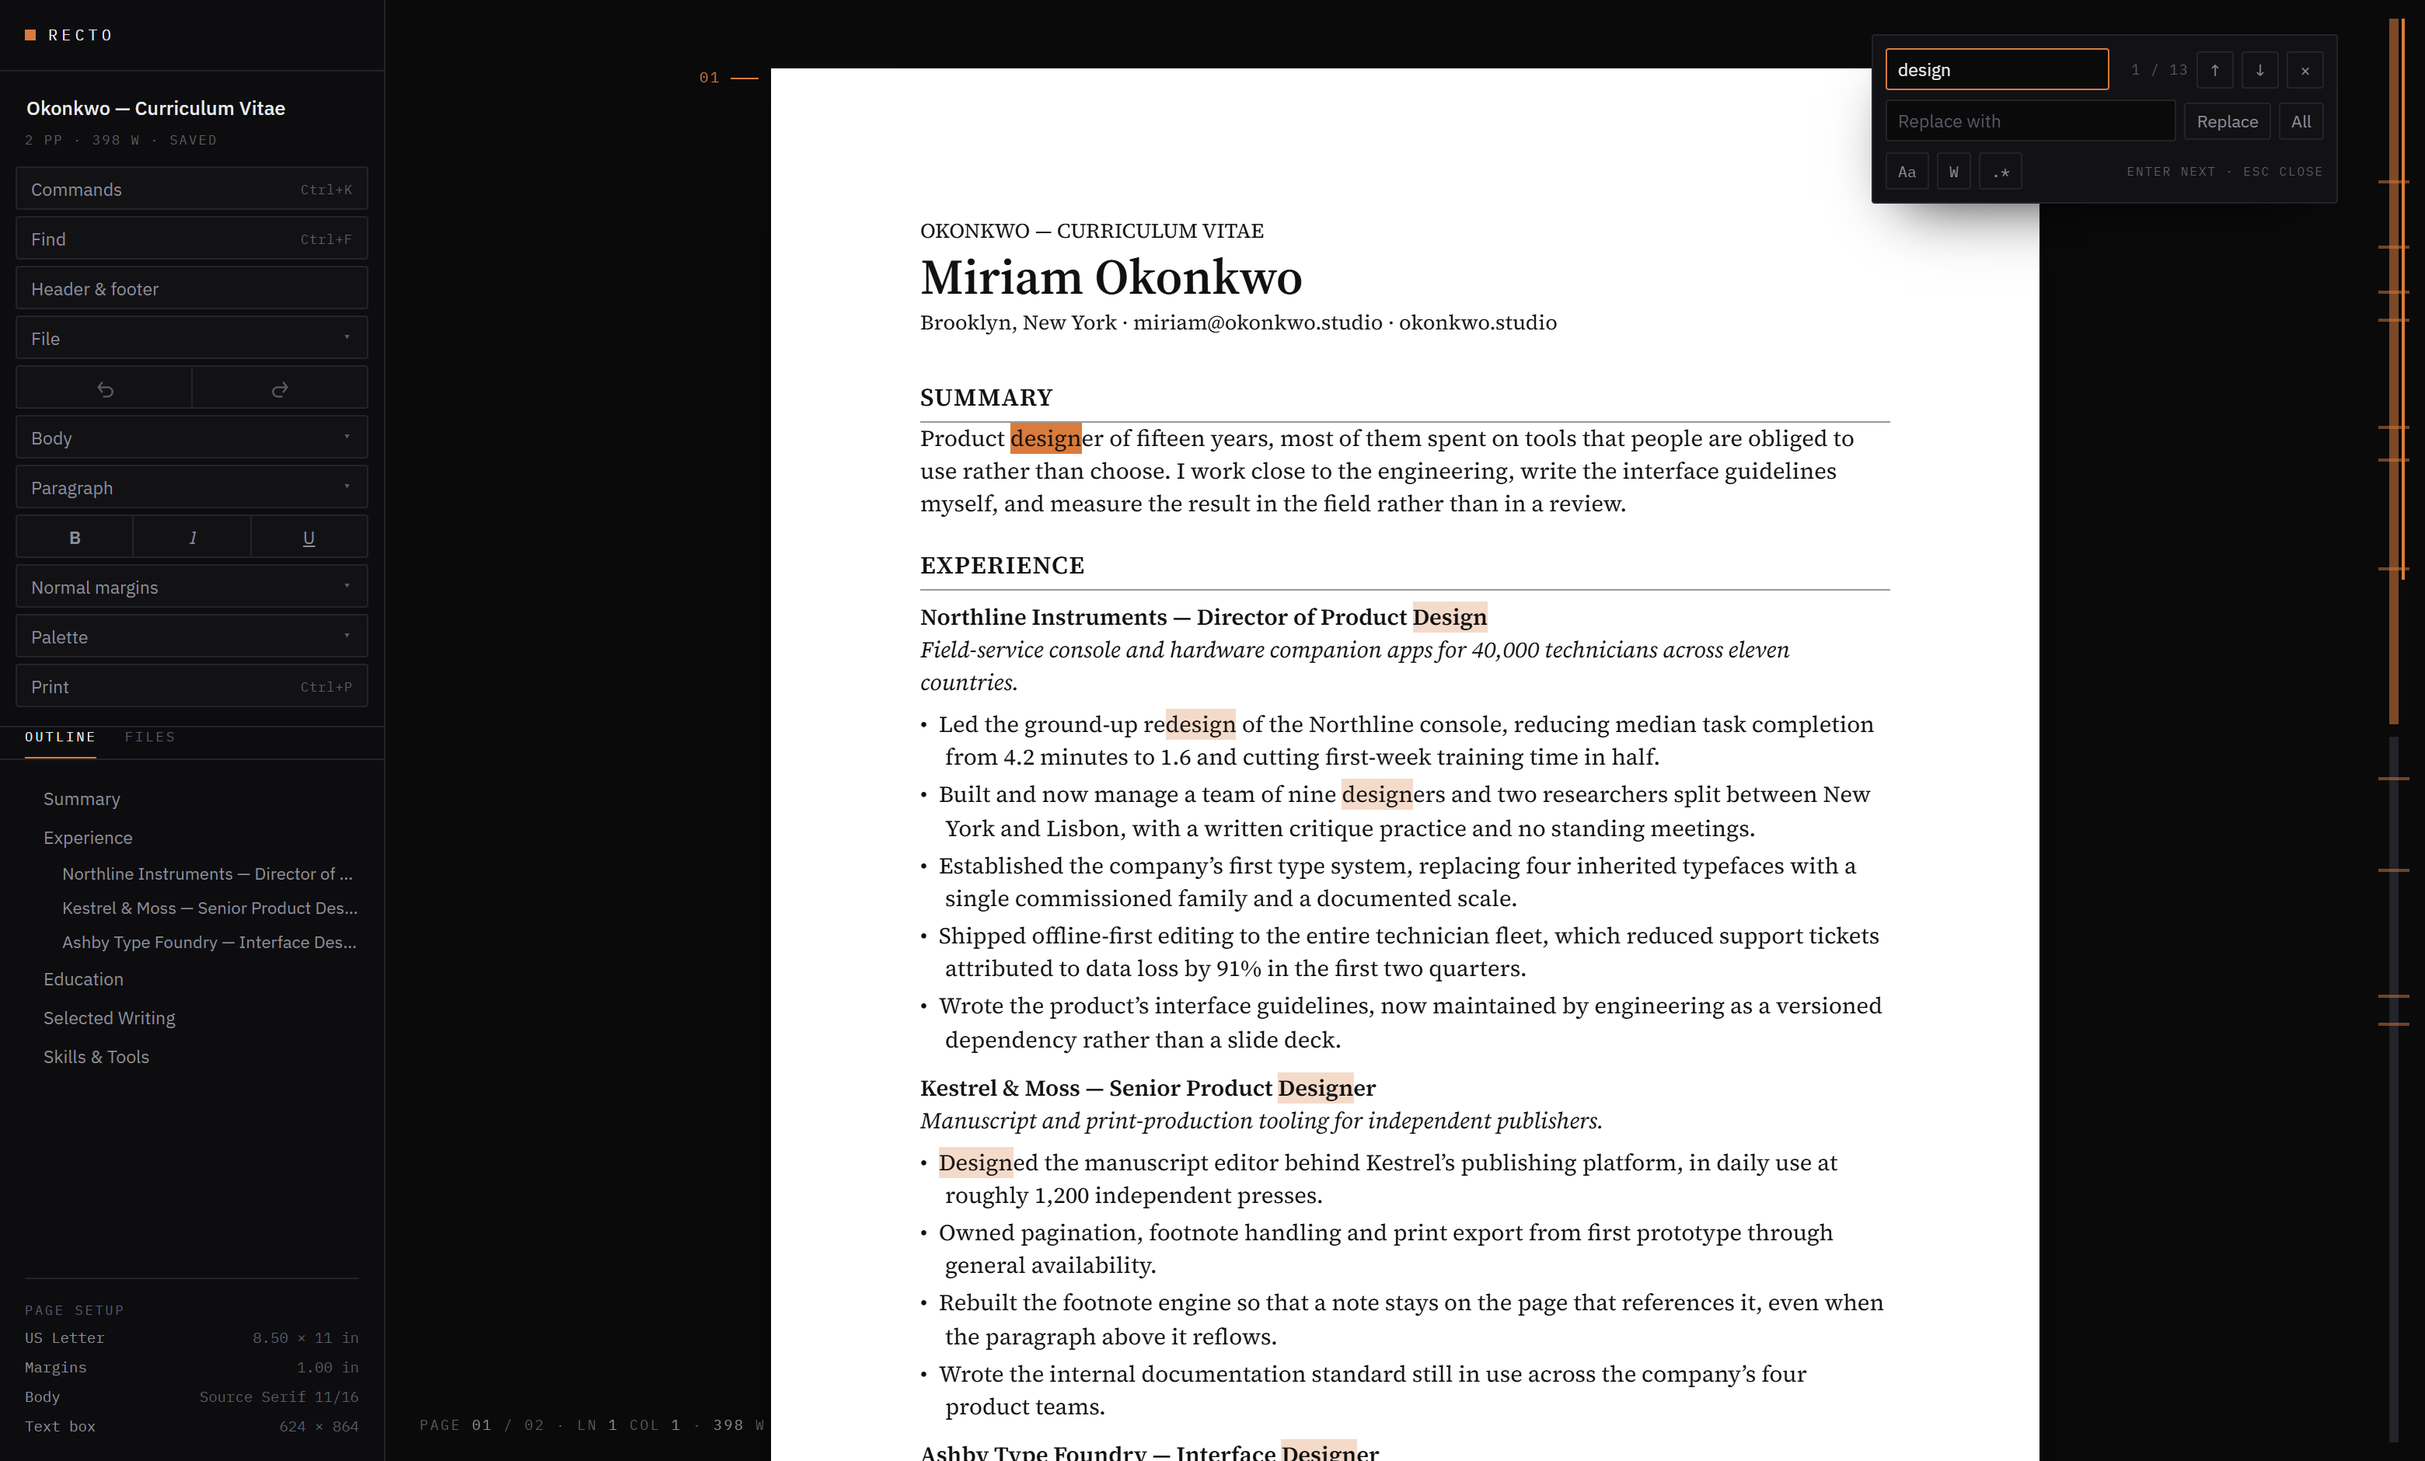
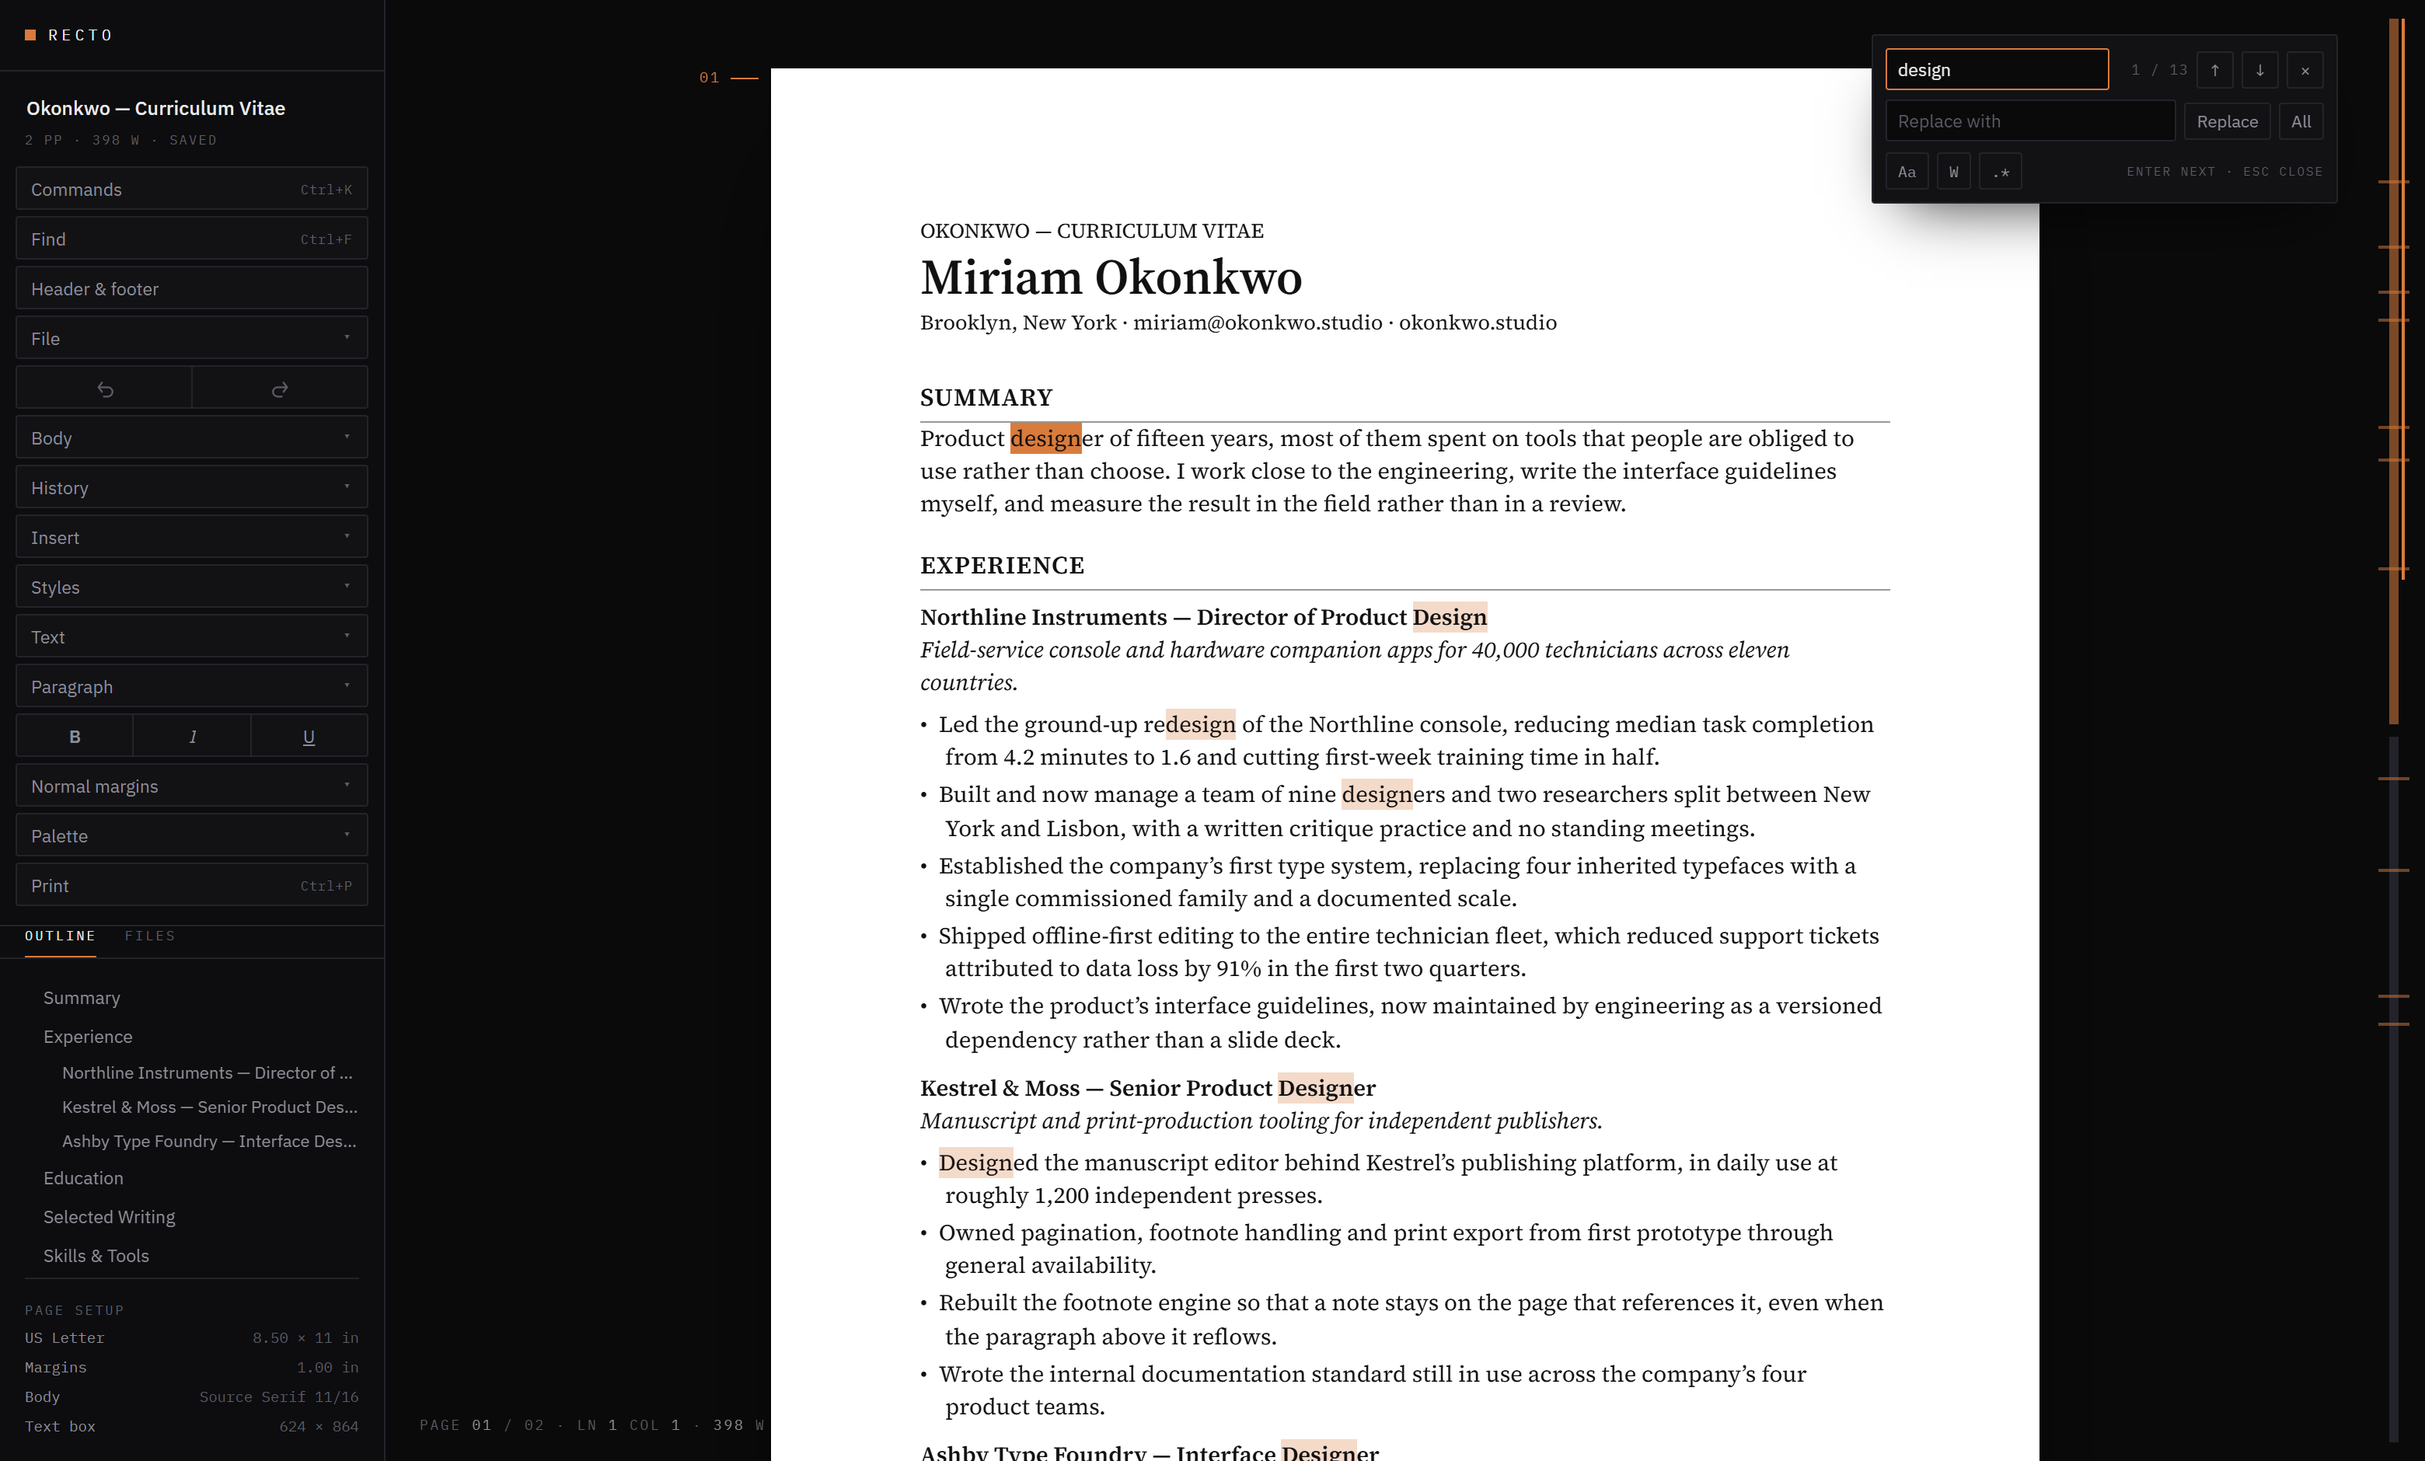
Document the nine, and recapture the rail
README picks up character formatting, comments, version history, the
styles editor, library search and the phone layout; the harness table
now lists every suite and what each one pins down; the acceptance tests
gain the two new measured ones.

Screenshots regenerated: the rail has grown History, Insert, Styles,
Text and Paragraph since the last set, and a screenshot that stops being
true is the thing docs/screenshots.mjs exists to prevent.

Changed region(s): [[0.0, 0.4628, 0.1554, 0.8638], [0.0311, 0.4011, 0.0622, 0.4319]]

diff --git a/README.md b/README.md
@@ -26,9 +26,9 @@ and a preview pane that this program has never had.
 ## Contents
 
 - [Stack](#stack)
-- [The workspace](#the-workspace) — [command palette](#the-command-palette), [formatting bar](#the-formatting-bar), [export sheet](#the-export-sheet), [library](#the-library), [palettes](#palettes)
+- [The workspace](#the-workspace) — [command palette](#the-command-palette), [formatting bar](#the-formatting-bar), [export sheet](#the-export-sheet), [library](#the-library), [history](#version-history), [styles](#the-styles-editor), [a phone](#a-phone), [palettes](#palettes)
 - [Geometry](#geometry) · [How it works](#how-it-works) · [Pagination](#the-two-pagination-paths) · [Line-level splitting](#line-level-splitting) · [Styles](#styles)
-- [Opening a .docx](#opening-a-docx) — [headings](#headings-when-the-document-does-not-say), [tables](#tables), [sections](#sections), [direct formatting](#direct-paragraph-formatting), [the preservation vault](#the-preservation-vault)
+- [Opening a .docx](#opening-a-docx) — [headings](#headings-when-the-document-does-not-say), [tables](#tables), [sections](#sections), [paragraph formatting](#direct-paragraph-formatting), [character formatting](#direct-character-formatting), [comments](#comments), [the preservation vault](#the-preservation-vault)
 - [Fidelity harness](#fidelity-harness) · [Printing to PDF](#printing-to-pdf) · [.docx export](#docx-export) · [Storage](#storage)
 - [Format independence](#format-independence) · [Not built, on purpose](#not-built-on-purpose) · [Acceptance tests](#acceptance-tests)
 
@@ -141,8 +141,12 @@ has no original would be a lie told at exactly the wrong moment.
 <sub>The FILES tab: type-to-filter, a recency fade down the list, page and word counts kept in the index so nothing has to be loaded to list it, and the one command that gets everything out.</sub>
 
 
-The rail's FILES tab lists every document, newest first, with a type-to-filter
-box and a recency fade down the list. Clicking one opens it; the row menu
+The rail's FILES tab lists every document, newest first, with a recency fade
+down the list. Typing two or more letters searches the **text** of every
+document, not just its title, with a match count and the line the phrase is
+on so you can tell which document it is without opening it. No index: sixty
+documents of six hundred kilobytes is a few milliseconds, and an index that
+can be wrong is worse than a scan that cannot. Clicking one opens it; the row menu
 duplicates or deletes. `New document` and `Browse documents` are in the File
 menu, on Cmd/Ctrl+N and Cmd/Ctrl+O.
 
@@ -159,6 +163,53 @@ Two things this has to get right:
 Deleting a document also deletes the original .docx bytes held for it in
 IndexedDB, and if it was the open one the app lands on the next most recent
 rather than on a document that no longer exists.
+
+### Version history
+
+Every settled save keeps a version, twenty-five per document, in IndexedDB.
+Deliberately **not** localStorage: that is where the documents themselves
+live, and filling it with history would make the thing it protects fail to
+save. Losing history is survivable; failing to save is not — which is also
+why `keepVersion` is never awaited and swallows its own failures.
+
+A version is only kept when it differs from the one before it, so sitting on
+a document does not fill the store with copies of itself. Restoring is an
+edit rather than a rewind: the version you were on is kept, so changing your
+mind costs nothing and one Undo puts it back. The document id survives the
+restore, or it would become a second document in the library.
+
+### The styles editor
+
+The six named styles are the document's own. A resume set in 10pt and a
+report set in 12pt are both right, so the overrides live on the **document**
+— a global preference would be wrong in one of them.
+
+`STYLES` is mutated in place rather than replaced. Everything reads
+`STYLES[id]` directly — the CSS emitter, the style menu, the Enter key, the
+paginator's keep-with-next rules and both exporters — so one table that
+changes is the whole feature, where a second table would be a second source
+of truth to get out of step. A value equal to the shipped one is recorded as
+agreement rather than as an override, so a document fiddled back to the
+default carries no `styles` block at all.
+
+### A phone
+
+The page is 816 CSS pixels wide and has to stay that way: every height the
+paginator compares against is a CSS pixel, so a responsive layout that shrank
+the page would shrink the measurements with it.
+
+So nothing scales the page. The **viewport** is widened instead — the browser
+lays the app out at a fixed 880 and scales the rendered result down to the
+device, as it does for any fixed-width page. Measurement is untouched, the
+caret lands where it looks like it should, and print still matches the screen
+because the screen is still 816 pixels of paper. The rail becomes a drawer;
+the document map and the gutter page numbers go, because they are for a mouse
+and a wide window; the readout stays, because it is the only thing that says
+where you are.
+
+Mobile is a coarse pointer **and** a narrow screen. Either alone is the wrong
+test: a touchscreen laptop has a coarse pointer and plenty of room, and a
+narrow window on a desktop belongs to someone who can widen it.
 
 ### Palettes
 
@@ -215,6 +266,11 @@ All geometry is in CSS pixels at 96px per inch, and the numbers are exact.
 | `main.ts` | entry, toolbar composition, event wiring, autosave |
 | `ui.ts` | control widgets: buttons and dropdown menus |
 | `commandbar.ts` | the command palette |
+| `ask.ts` | one question, one answer |
+| `insert.ts` | making tables, images, links and page breaks |
+| `runs.ts` | character formatting: read, drawn, edited |
+| `versions.ts` | version history, in IndexedDB |
+| `mobile.ts` | the phone layout |
 | `formatbar.ts` | the formatting bar over a selection |
 | `exportsheet.ts` | the export sheet, and what each format costs |
 | `theme.ts` | the twelve palettes, as ten tokens each |
@@ -555,6 +611,52 @@ on Word's own `Ctrl+L`/`E`/`R`/`J`, which is why the export sheet moved to
 **Paragraph** menu and in the command palette, along with *Clear direct
 formatting*, which takes a paragraph back to its named style.
 
+### Direct character formatting
+
+14,865 of 18,906 runs in a 63-document corpus carry a size, a font or a
+colour of their own — **79%**, against the 47% that carry paragraph
+formatting. None of it was drawn, and there was a live data bug underneath:
+the vault kept **one** base `w:rPr` per paragraph and wrote it onto every
+regenerated run, so editing a line with one red word in it made the whole
+line red. Only untouched paragraphs were safe, which is exactly why a
+harness built on byte-identity never saw it.
+
+Runs carry their own style **absolutely** rather than as a difference from a
+paragraph base. The difference was tried first and reproduced the bug from
+the other end: a base taken from the first run with any properties made
+every plain run inherit that run's colour, and there is no way to spell
+"explicitly none". Absolute values have no inheritance to get wrong, survive
+a JSON round trip with no vault to consult, and cost almost nothing in
+markup, because adjacent pieces that agree are merged before the html is
+written — a paragraph whose every run is 14pt becomes one span, not one per
+run.
+
+Stored as data attributes on a span, never as a `style` attribute: the CSS
+is derived at render, so the sanitizer keeps a closed attribute list and
+nothing from the clipboard can smuggle a style into a saved document.
+Superscript is drawn as a smaller font on a raised baseline rather than
+`<sup>`, which would change the line box height and make a line taller than
+the paginator measured it.
+
+### Comments
+
+Not one document in the corpus has a comment in it, which is exactly why
+this needed doing: `w:commentRangeStart` fell through the inline walker's
+default case, so editing the words around a comment left it pointing at
+nothing, and nothing in that corpus would ever have caught it.
+
+Anchors are carried through the model as empty marker spans — the shape a
+page-number field already used, marking a position rather than holding text,
+so the caret counts exactly the characters it counted before. They are
+written back as `w:commentRangeStart`, `w:commentRangeEnd` and a
+`w:commentReference` inside a run, which is where the schema wants it.
+
+Comments are shown, not authored: author, initials, date and text are read
+from `word/comments.xml` and listed under the outline, because a document
+with comments on it is being reviewed and the comments and the headings
+answer the same question. The part is preserved whole, so a reply written in
+Word survives a round trip through here.
+
 ### The preservation vault
 
 The original package is kept in memory. On export only the body of
@@ -597,8 +699,24 @@ Two honest limits:
 
 ```bash
 npm run corpus   # write a seed corpus into test/corpus
-npm test         # inference, tables and the round trip
+npm test         # every suite, then the round trip
 ```
+
+| Suite | What it pins down |
+|---|---|
+| `test:infer` | headings, when the document does not say |
+| `test:table` | editing a cell survives export |
+| `test:image` | pictures come back whole |
+| `test:header` | headers, footers and page-number fields |
+| `test:section` | per-section geometry and headers |
+| `test:format` | alignment, indents and spacing, in schema order |
+| `test:run` | character formatting, and the flattening bug |
+| `test:insert` | new links, images and page breaks, added not overwritten |
+| `test:comment` | comment anchors survive an edit |
+| `test:text` | Markdown and HTML out, Markdown back in |
+| `test:roundtrip` | every part, byte for byte |
+| `test:pagination` | our page breaks against Word's own count |
+| `test:perf` | a keystroke inside a frame at any size |
 
 For each document it asserts that every part survives, that **non-document
 parts are byte-identical**, that text content and paragraph, table, numbering,
@@ -754,14 +872,15 @@ problem Markdown and .docx do not already solve here.
   and edited; one that arrives on the clipboard is not.
 - **A continuous section break.** It shares a page with the section before
   it, and a page has one geometry, so it folds into that section instead.
-- **Direct character formatting.** Paragraphs can be aligned, indented and
-  spaced, but there is still no font family, size or colour control: a run is
-  bold, italic, underlined, or it is whatever its named style says. Imported
-  run formatting is preserved on export and shown as the style renders it.
-- **Creating** a table or inserting an image. Both are read, drawn and edited
-  when they arrive in a .docx; neither can be made from nothing.
+- **Authoring comments.** They are read, anchored and shown; there is no way
+  to write one. Replies made in Word survive a round trip through here.
+- **Tracked changes** are shown as accepted and preserved on export. There is
+  no way to see them as changes, accept one or reject one.
+- **Highlight, small capitals and character styles.** Size, font, colour,
+  strikethrough and super/subscript are editable; the rest of `w:rPr` is
+  preserved and drawn as the named style renders it.
 - Columns, text boxes, footnotes, PDF import, collaboration, spell check
-  beyond the browser's own, mobile layout, any backend.
+  beyond the browser's own, any backend.
 
 Undo granularity is coarser than Word's: typing coalesces into one entry per
 500ms of activity, and each structural change is one entry.
@@ -802,5 +921,12 @@ Run these in order; all pass as of the last change.
 11. **Export match** — the .docx carries all six named styles, bold/italic/
     underline, hyperlinks, line breaks, bullet numbering, 8.5×11in page size
     and the right margins, with no forced page breaks.
-12. **Performance** — on a 10-page document the input handler runs at ~0.5ms
-    median and under 2ms at p99, whether typing on page 1 or page 10.
+12. **Performance** — `npm run test:perf` builds a document of any size and
+    measures a real keystroke in a real browser. At 200 pages and 2,701
+    blocks a keystroke is 4ms median and 8.3ms at p99, inside a frame
+    wherever in the document it lands. It was 14.7ms at eighty pages until
+    the gutter and the document map stopped rebuilding themselves on every
+    keystroke — the pagination was never the problem; the chrome was.
+13. **Pagination against Word** — `npm run test:pagination` compares our page
+    count with the one Word recorded in `docProps/app.xml`. On 36 documents
+    that carry one: 21 exact, 13 within a page, 2 further out.
